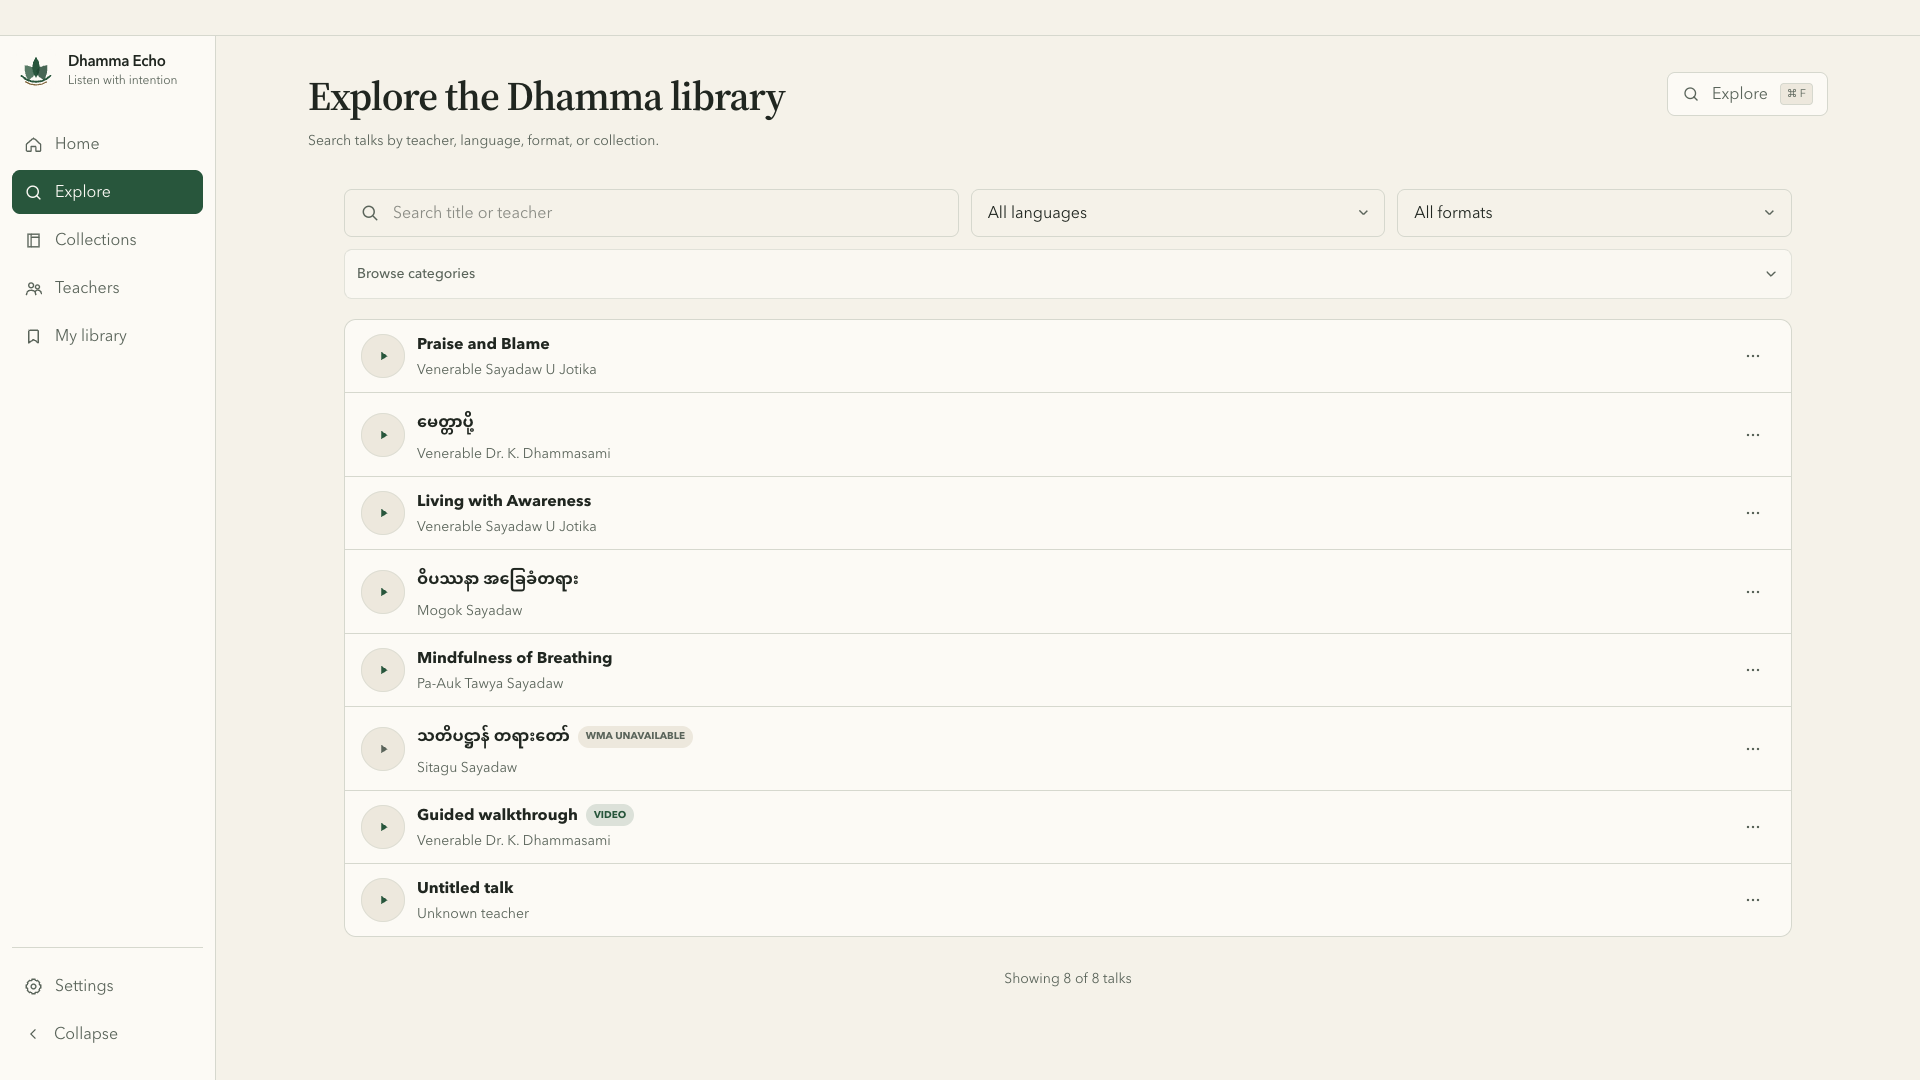
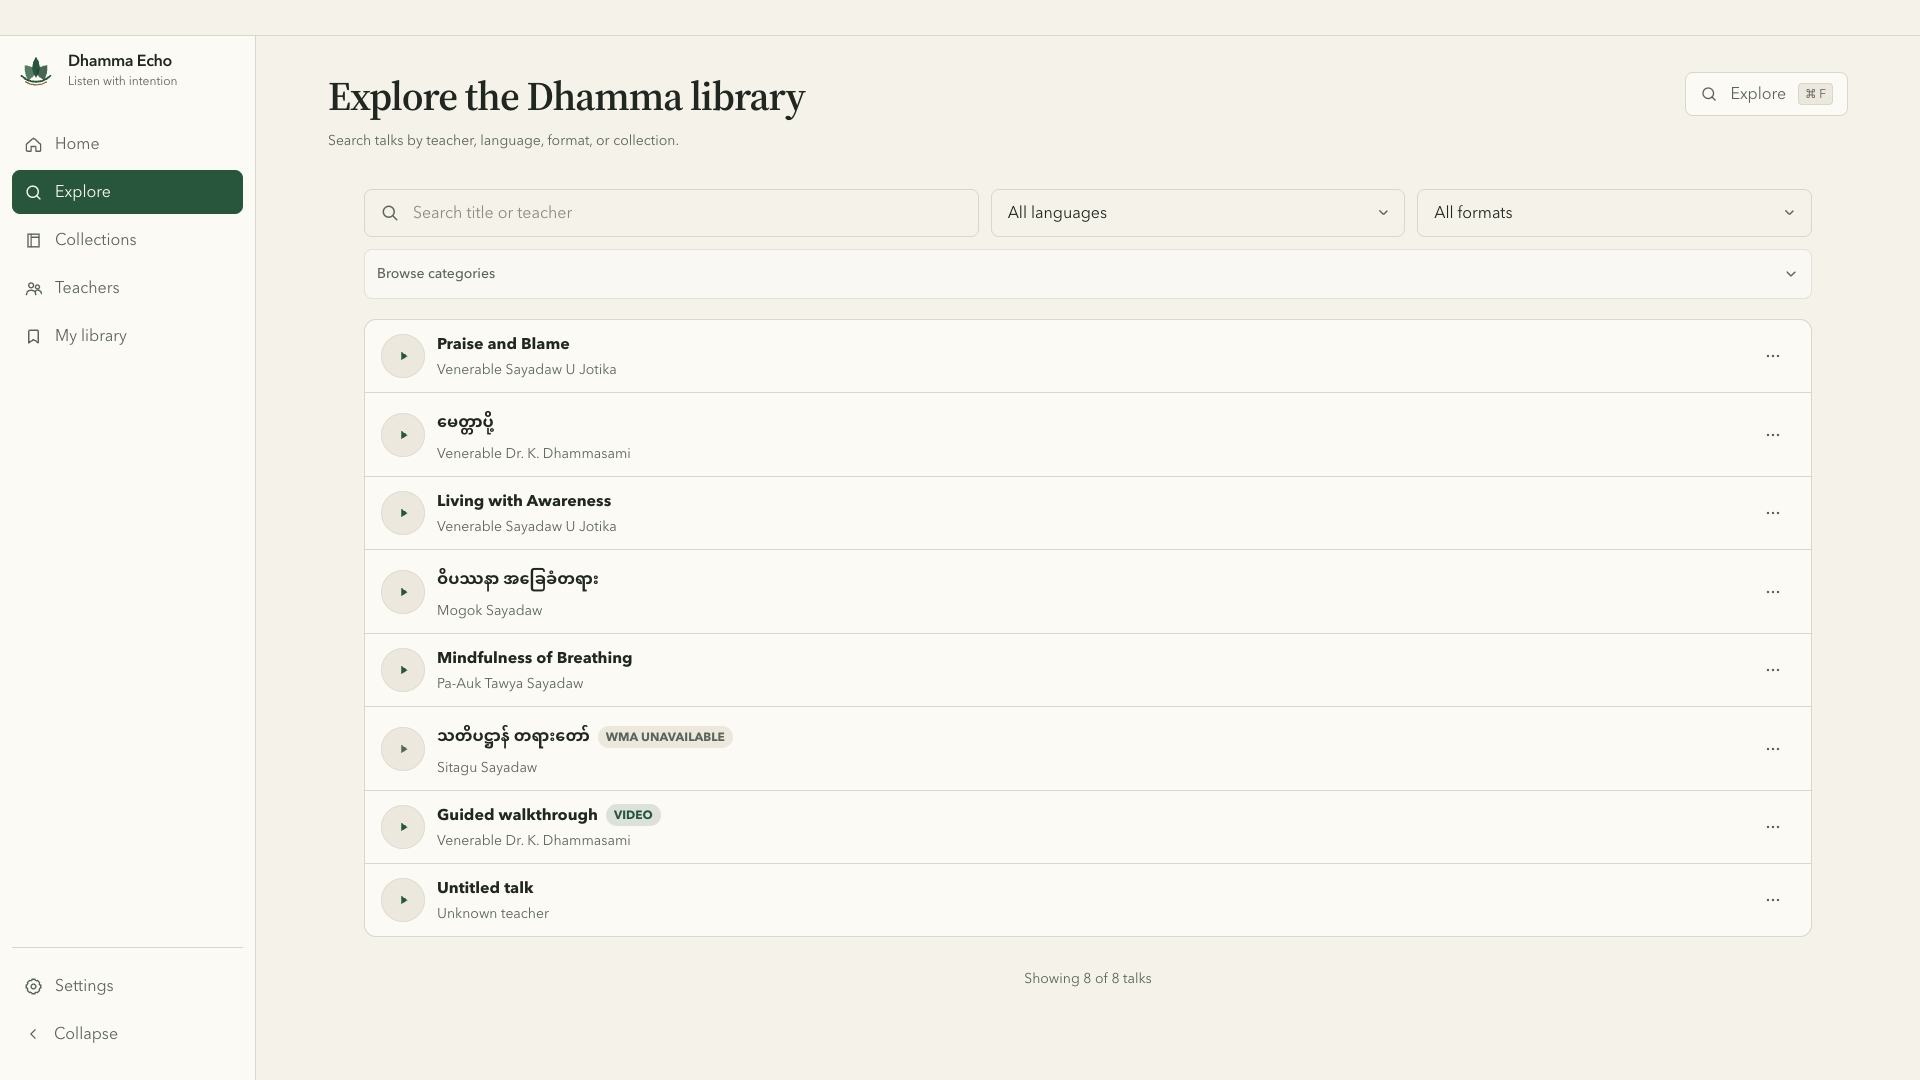
feat(design): apply approved evergreen editorial refinements

diff --git a/src/components/TrackRow.svelte b/src/components/TrackRow.svelte
@@ -140,15 +140,15 @@
           class="break-words font-bold leading-6 {myanmarTitle ? 'myanmar-text' : ''}"
           lang={myanmarTitle ? "my" : undefined}>{displayTitle}</span
         >{#if track.mediaType === "video"}<span
-            class="inline-flex min-h-[22px] items-center justify-center rounded-full bg-app-primary/15 px-2 align-middle text-[10px] leading-normal font-bold text-app-primary uppercase"
+            class="inline-flex min-h-[22px] items-center justify-center rounded-full bg-app-primary/15 px-2 align-middle text-xs leading-normal font-bold text-app-primary uppercase"
             >{t(locale, "track.badge.video")}</span
           >{/if}{#if !track.playable}<span
-            class="inline-flex min-h-[22px] items-center justify-center rounded-full bg-app-soft px-2 align-middle text-[10px] leading-normal font-bold text-app-muted uppercase"
+            class="inline-flex min-h-[22px] items-center justify-center rounded-full bg-app-soft px-2 align-middle text-xs leading-normal font-bold text-app-muted uppercase"
             >{track.format.toLowerCase() === "wma"
               ? t(locale, "track.badge.wma")
               : t(locale, "track.badge.unavailable")}</span
           >{/if}{#if missingDownload || unknownDownload}<span
-            class="inline-flex min-h-[22px] items-center justify-center rounded-full border border-app-border px-2 align-middle text-[10px] leading-normal font-bold text-app-muted"
+            class="inline-flex min-h-[22px] items-center justify-center rounded-full border border-app-border px-2 align-middle text-xs leading-normal font-bold text-app-muted"
             >{t(
               locale,
               missingDownload ? "track.badge.missingDownload" : "track.badge.unverifiedDownload"
@@ -162,7 +162,7 @@
         lang={myanmarTeacher ? "my" : undefined}
         ><span class="truncate">{track.teacherName || t(locale, "player.unknownTeacher")}</span
         >{#if resume > 0 && !current}<span
-            class="inline-flex shrink-0 items-center gap-1 rounded-full bg-app-soft px-2 align-middle text-[11px] leading-normal font-bold text-app-muted"
+            class="inline-flex shrink-0 items-center gap-1 rounded-full bg-app-soft px-2 align-middle text-xs leading-normal font-bold text-app-muted"
             aria-label={t(locale, "track.resumeAt", { time: resumeLabel })}
           >
             <span class="size-1.5 rounded-full bg-app-muted" aria-hidden="true"></span>

diff --git a/src/App.svelte b/src/App.svelte
@@ -19,7 +19,7 @@
   import SettingsView from "./views/SettingsView.svelte";
   import TeacherDetailView from "./views/TeacherDetailView.svelte";
   import TeachersView from "./views/TeachersView.svelte";
-  import { documentLanguage } from "./i18n.js";
+  import { documentLanguage, t } from "./i18n.js";
 
   let { app, stateStore }: { app: DhammaApp; stateStore: Readable<AppState> } = $props();
   let appState = $derived($stateStore);
@@ -137,9 +137,14 @@
 <svelte:window onkeydown={keydown} onbeforeunload={() => app.destroy()} />
 <div
   class="h-screen min-h-screen overflow-hidden bg-app-bg text-app {appState.ui.sidebarCollapsed
-    ? '[--sidebar-offset:68px]'
-    : '[--sidebar-offset:216px] max-[1040px]:[--sidebar-offset:200px]'}"
+    ? '[--sidebar-offset:72px]'
+    : '[--sidebar-offset:256px] max-[1040px]:[--sidebar-offset:224px]'}"
 >
+  <a
+    href="#main-content"
+    class="sr-only focus:not-sr-only fixed top-[calc(var(--titlebar-height)+0.5rem)] left-[calc(var(--sidebar-offset)+1rem)] z-50 rounded-control bg-app-primary px-4 py-3 text-sm font-bold text-app-primary-ink"
+    >{t(appState.settings.locale, "a11y.skipToMain")}</a
+  >
   <div class="h-full">
     <Sidebar state={appState} {app} />
     <div
@@ -148,7 +153,11 @@
       class="ml-(--sidebar-offset) h-full overflow-y-auto overscroll-none [scrollbar-gutter:stable] pt-(--titlebar-height) {bottomPadding}"
     >
       <Header state={appState} onsearch={focusCatalogueSearch} />
-      <main class="@container mx-auto max-w-[1520px] px-9 py-4 max-[1040px]:px-6">
+      <main
+        id="main-content"
+        tabindex="-1"
+        class="@container mx-auto max-w-[1520px] px-9 py-4 max-[1040px]:px-6"
+      >
         {#if appState.route === "home"}<HomeView state={appState} {app} />
         {:else if appState.route === "explore"}<ExploreView state={appState} {app} />
         {:else if appState.route === "collections"}<CollectionsView state={appState} {app} />

diff --git a/src/components/Sidebar.svelte b/src/components/Sidebar.svelte
@@ -42,7 +42,7 @@
     <img src="./logo.svg" alt="" class="size-10 shrink-0 rounded-control" />
     {#if !collapsed}
       <div class="min-w-0">
-        <p class="truncate text-[15px] font-semibold tracking-tight">{t(locale, "app.name")}</p>
+        <p class="truncate text-base font-semibold tracking-tight">{t(locale, "app.name")}</p>
         <p class="truncate text-xs text-app-muted">{t(locale, "app.tagline")}</p>
       </div>
     {/if}
@@ -57,7 +57,7 @@
         title={collapsed ? t(locale, item.labelKey) : undefined}
         class="group flex min-h-11 w-full items-center {collapsed
           ? 'justify-center'
-          : 'gap-3 px-3'} rounded-control text-left text-sm font-medium transition-[background-color,color] duration-150 {active(
+          : 'gap-3 px-3'} rounded-control text-left text-base font-medium transition-[background-color,color] duration-150 {active(
           item.route
         )
           ? 'bg-app-primary text-app-primary-ink'
@@ -77,7 +77,7 @@
       title={collapsed ? t(locale, "nav.settings") : undefined}
       class="flex min-h-11 w-full items-center {collapsed
         ? 'justify-center'
-        : 'gap-3 px-3'} rounded-control text-sm font-medium transition-colors {active('settings')
+        : 'gap-3 px-3'} rounded-control text-base font-medium transition-colors {active('settings')
         ? 'bg-app-primary text-app-primary-ink'
         : 'text-app-muted hover:bg-app-soft hover:text-app'}"
     >

diff --git a/src/components/VideoPlayer.svelte b/src/components/VideoPlayer.svelte
@@ -418,7 +418,7 @@
                 >
                   <span class="block size-[18px] [&_svg]:size-full"><Icon name="queue" /></span>
                   {#if appState.player.queue.length > 0}<span
-                      class="absolute -top-1 -right-1 flex size-4 items-center justify-center rounded-full border-2 border-app-surface bg-app-primary text-[0.55rem] font-extrabold text-app-primary-ink"
+                      class="absolute -top-1 -right-1 flex min-w-6 h-6 px-1 items-center justify-center rounded-full border-2 border-app-surface bg-app-primary text-xs font-extrabold text-app-primary-ink"
                       >{formatLocaleNumber(appState.player.queue.length, locale)}</span
                     >{/if}
                 </button>

diff --git a/src/components/Player.svelte b/src/components/Player.svelte
@@ -282,7 +282,7 @@
           title={queueLabel}
           aria-expanded={appState.player.queueOpen}
           ><span><Icon name="queue" /></span>{#if appState.player.queue.length > 0}<span
-              class="absolute -top-[3px] -right-1 flex size-[18px] items-center justify-center rounded-full border-2 border-app-surface bg-app-primary text-[0.58rem] font-extrabold text-app-primary-ink"
+              class="absolute -top-[3px] -right-1 flex min-w-6 h-6 px-1 items-center justify-center rounded-full border-2 border-app-surface bg-app-primary text-xs font-extrabold text-app-primary-ink"
               aria-hidden="true">{formatLocaleNumber(appState.player.queue.length, locale)}</span
             >{/if}</button
         >

diff --git a/src/i18n.ts b/src/i18n.ts
@@ -9,6 +9,7 @@ import { formatLocaleNumber } from "./utils.js";
 const en = {
   "app.name": "Dhamma Echo",
   "app.tagline": "Listen with intention",
+  "a11y.skipToMain": "Skip to main content",
 
   "nav.primary": "Primary",
   "nav.primaryNavigation": "Primary navigation",
@@ -325,6 +326,7 @@ export type MessageKey = keyof typeof en;
 const my: Partial<Record<MessageKey, string>> = {
   "app.name": "Dhamma Echo",
   "app.tagline": "ရည်ရွယ်ချက်ဖြင့် နားထောင်ပါ",
+  "a11y.skipToMain": "ပင်မအကြောင်းအရာသို့ သွားရန်",
 
   "nav.primary": "အဓိက",
   "nav.primaryNavigation": "အဓိက လမ်းညွှန်",

diff --git a/src/views/LibraryView.svelte b/src/views/LibraryView.svelte
@@ -63,7 +63,7 @@
           onclick={() => setTab(tab.id)}
           >{t(locale, tab.labelKey)}
           {#if tabCount(tab.id) > 0}<span
-              class="inline-flex min-h-[20px] items-center justify-center rounded-full bg-app-primary/15 px-2 align-middle text-[11px] leading-normal font-bold text-app-primary"
+              class="inline-flex min-h-[20px] items-center justify-center rounded-full bg-app-primary/15 px-2 align-middle text-xs leading-normal font-bold text-app-primary"
               >{formatLocaleNumber(tabCount(tab.id), locale)}</span
             >{/if}
         </button>

diff --git a/src/components/Header.svelte b/src/components/Header.svelte
@@ -41,7 +41,7 @@
       <span class="size-[18px]"><Icon name="explore" /></span>
       <span>{t(state.settings.locale, "nav.explore")}</span>
       <kbd
-        class="rounded border border-app-border bg-app-soft px-1.5 py-0.5 font-sans text-[11px] leading-4 max-[1040px]:hidden"
+        class="rounded border border-app-border bg-app-soft px-1.5 py-0.5 font-sans text-xs leading-4 max-[1040px]:hidden"
         >{shortcut}</kbd
       >
     </button>

diff --git a/src/index.css b/src/index.css
@@ -139,8 +139,12 @@ h3 {
 }
 
 button:focus-visible,
+a[href]:focus-visible,
 input:focus-visible,
 select:focus-visible,
+textarea:focus-visible,
+[role="button"]:focus-visible,
+[role="slider"]:focus-visible,
 [tabindex]:focus-visible {
   outline: 3px solid var(--color-app-primary);
   outline-offset: 3px;

diff --git a/docs/redesign/Q01_Q48_DELIVERY.md b/docs/redesign/Q01_Q48_DELIVERY.md
@@ -1,0 +1,76 @@
+# Dhamma Echo — Evergreen Editorial, Q01–Q48 Approval & Delivery
+
+**Approved:** 2026-10-24 · **Status:** Implemented as a refinement of the established 0.6.1 redesign · **Primary source of truth:** ../../DESIGN.md
+
+This decision set is cumulative with the earlier Q01–Q80 redesign recorded in REDESIGN_PRD.md and CONCEPT_DECISION.md. It does not replace working catalogue, persistence, playback, or security architecture. All Q01–Q48 answers are approved **A**. This document gives the approved visual contract and distinguishes code changes from existing behavior and unverified claims.
+
+## Direction and rules (Q01–Q06)
+
+Quiet editorial listening room; nuanced Buddhist identity; grounded, warm atmosphere; major refinement rather than novelty; Apple Books-inspired reading hierarchy; solid surfaces with hairline borders. Avoid decorative gradients, fabricated artwork, overlaid glass effects, extraneous metrics, and a separate navigation model.
+
+## Evergreen Editorial semantic palette (Q07–Q12)
+
+| Role               | Light   | Dark    | Meaning                         |
+| ------------------ | ------- | ------- | ------------------------------- |
+| Canvas / substrate | #F5F2E9 | #141C18 | Application backdrop            |
+| Page / surface     | #FCFAF5 | #1E2721 | Reading surfaces                |
+| Panel / soft       | #EDE8DD | #27312A | Grouped controls                |
+| Main text          | #202620 | #EBEEE6 | Content and headings            |
+| Muted text         | #5A645A | #B8C2B6 | Supporting information          |
+| Border             | #D6D8CE | #3B473F | Structural separation           |
+| Primary            | #28563C | #98C5A8 | Current action and selection    |
+| Primary strong     | #1F4631 | #BED9C6 | Emphasis / interactive feedback |
+| On primary         | #FCFAF5 | #141C18 | Primary-button text             |
+| Bronze marker      | #83683F | #BDA47D | Quiet secondary emphasis        |
+| Error text         | #A63A2D | #EF9F8F | Recoverable/unrecoverable error |
+| Error surface      | #F9E2DE | #351E1A | Error container                 |
+
+The current system theme remains the initial default; explicit Light and Dark choices are stored locally. DESIGN.md and src/index.css define canonical roles and stay checked by bun run design:check. Custom states use semantic color mixing rather than arbitrary new colors. Normal-text contrast target is >=4.5:1; essential non-text contrast >=3:1.
+
+## Typography and localization (Q13–Q18)
+
+- Display English: Source Serif 4, Source Serif Pro, Georgia; headings approximately 30/24/20/18px depending on context.
+- Body: Avenir Next and system sans, **16px default reading target**, 14px for compact data rows, 12px minimum for intentional labels/badges; avoid sub-12px lettering.
+- Myanmar: Noto Sans Myanmar, Myanmar Text, Pyidaungsu fallback. No Latin tracking, forced caps, unsafe codepoint truncation or compressed Myanmar line heights.
+- Language selection: Myanmar and English, using the existing translation dictionaries. Dates/durations/counts remain locale-sensitive; long titles wrap without breaking glyph clusters.
+
+## Layout and navigation (Q19–Q24)
+
+- One desktop shell with **256px standard / 224px compact / 72px collapsed** sidebar, context-sensitive header, content viewport up to 1520px, and player when active.
+- Minimum window: 860×620. Main content remains scrollable. No permanent empty right panel.
+- Home: continue listening first when available, otherwise helpful first-launch discovery.
+- Explore: prominent search, contextual filters, accessible audio/video/WMA states, scannable track rows.
+- Teachers and Collections: dedicated listing and detail screens, actual catalogue content only.
+- Spacing foundation: 4/8/12/16/24/32/48px. Controls radius 8px; cards 12px; filter pills fully rounded.
+
+## Listening system (Q25–Q30)
+
+- Persistent bottom audio player uses existing 84px desktop / 132px compact layout and MediaEngine, not a parallel implementation.
+- Queue opens on demand. Playback controls and seek remain keyboard-operable and visually distinct. Queue count badges must remain readable.
+- Video remains integrated and expandable without cloning playback. Retain rate, position, resume, queue, unsupported-format, offline, and failure handling.
+
+## Components and interaction (Q31–Q36)
+
+Reuse the existing Svelte components: App shell, TitleBar, Sidebar, Header, Icon, search, TeacherCard, CollectionCard, TrackRow, Player, QueuePanel, VideoPlayer, ProgressiveControls, AsyncState, and settings controls. Each interaction requires understandable default, hover, pressed, focus-visible, selected, error and disabled states as applicable. Reuse the project Icon component. Motion is subtle (~100–240ms), never ornamental; honor reduced motion. Teacher imagery must be authentic or an identity-neutral fallback.
+
+## Accessibility and macOS requirements (Q37–Q42)
+
+- WCAG 2.2 AA target; visible keyboard focus, semantic controls, readable mixed scripts, no color-only status.
+- First keyboard stop is a localized Skip to main content link; activation focuses #main-content.
+- Pointer hit targets remain comfortable, especially on playback and queue controls.
+- Verify minimum 860×620 window, 150% root text-size scaling without horizontal content overflow, both color themes and Myanmar/English.
+- Preserve native window/titlebar interactions, local-only preferences, keyboard shortcuts, VoiceOver expectations, and Tauri/WKWebView semantics.
+
+## Engineering, verification and scope (Q43–Q48)
+
+- Preserve all existing functionality and privacy/security constraints. Rust and read-only SQLite remain unchanged by this visual pass.
+- DESIGN.md stays canonical with linked CSS design tokens and drift checks. No new runtime UI framework or dependencies.
+- Layout, badge typography, focus selector coverage, and localized skip link are implemented in src/. Regression assertions and Playwright 150%-scale/skip-navigation checks were added.
+- Reuse the existing comprehensive checks: bun run verify:web, bun run verify, Impeccable source and live scans, Playwright responsive/theme/locale suites, directory/focus, interactions, and offline behavior.
+- Audit screenshots remain in docs/images and docs/redesign. Review both themes in native WKWebView for final macOS signoff.
+
+## Acceptance and known verification boundaries
+
+The acceptance gate includes: no token drift, no source-level Impeccable failures, all existing tests passing, screenshots at 860×620 and desktop sizes, no document/content horizontal overflow at 150% root type scaling, skip link keyboard operable, no media state regressions, and no new runtime dependencies.
+
+A passing browser preview is not proof of native VoiceOver compliance, real third-party media availability, macOS notarization, or Windows/Linux readiness. Those remain evidence-specific checks. See IMPLEMENTATION_REPORT.md and ACCEPTANCE_RESULTS.json for earlier Q01–Q80 evidence and limitations.

diff --git a/docs/redesign/IMPLEMENTATION_REPORT.md b/docs/redesign/IMPLEMENTATION_REPORT.md
@@ -1,5 +1,18 @@
 # Dhamma Echo 0.6.1 — Implementation & Verification Report
 
+## 2026-10-24 Evergreen Editorial Q01–Q48 implementation
+
+**Approved decisions:** all Q01–Q48 recommended A options, recorded in [Q01_Q48_DELIVERY.md](Q01_Q48_DELIVERY.md). This work refines the existing 0.6.1 Quiet Listening Desk redesign rather than replacing its data or playback architecture.
+
+- **Impeccable v4.7.0:** confirmed installed under `.agents/skills/impeccable`, loaded its project context and craft/audit guidance, and ran source/live detection. Source scan reported **0 anti-patterns** after removing 9 off-ramp typography advisories; the source scan is not a complete rendered accessibility audit.
+- **UI changes:** applied the approved 256/224/72px sidebar widths; enlarged labels, status badges and queue count indicators; updated default body typography documentation to 16px; extended visible focus selectors; added a localized keyboard-first Skip to main content link and focusable destination.
+- **Tests:** `bun run verify` passed, including format checks, web/site/design checks, tests and coverage, dependency audit, Rust Clippy/tests, and Rust release build. Four Playwright suites (responsive/theme/locale, interactions, directory/focus, and offline) passed. The UI suite additionally verifies 150% root font scaling without horizontal overflow at 860×620 and keyboard skip navigation.
+- **Visual evidence:** refreshed six documentation screenshots and the 860px Home screenshot; manually inspected Home and Explore at desktop and Home at 860px. The browser preview is not a native WKWebView screenshot.
+- **Packaging:** `bun run package` completed. `codesign --verify --deep --strict` succeeded for `Dhamma Echo.app`; `hdiutil verify` validated `Dhamma Echo_0.6.1_aarch64.dmg`.
+- **Limitations:** App is ad-hoc signed but **not notarized**. Live external media reliability, actual native VoiceOver operation, cross-platform Windows/Linux behavior and user-involved hardware testing are not claimed complete. This continuation does not assert every previously IN_PROGRESS AC-01–AC-80 criterion was exhaustively verified.
+
+---
+
 ## 2026-10-23 engineering continuation
 
 The 0.6.1 working tree extends the 0.6.0 baseline with source changes to the Rust

diff --git a/DESIGN.md b/DESIGN.md
@@ -41,7 +41,7 @@ typography:
     lineHeight: 1.2
   body:
     fontFamily: "'Avenir Next', 'Noto Sans Myanmar', 'Myanmar Text', 'Pyidaungsu', system-ui, sans-serif"
-    fontSize: "0.875rem"
+    fontSize: "1rem"
     fontWeight: 400
     lineHeight: 1.5
   label:
@@ -206,4 +206,4 @@ Use the frontmatter radius grammar: 8px controls, 12px cards, rounded filter pil
 
 **Don't:** Invent teacher portraits, biographies, durations or recommendations; add marketing hero imagery, irrelevant cards, thick colored sidebars, new runtime dependencies, remote fonts, accounts, telemetry, gradients, glassmorphism, novelty sacred symbols, additional media services or destructive state migration; show custom macOS controls alongside native ones; restart or duplicate playback to change a theme or route.
 
-For source and acceptance traceability see docs/redesign/REDESIGN_PRD.md and docs/redesign/ACCEPTANCE.md.
+For source and acceptance traceability see docs/redesign/REDESIGN_PRD.md and docs/redesign/ACCEPTANCE.md. The approved Q01–Q48 Evergreen Editorial refinement, semantic light/dark HEX palette, 256/224/72px sidebar contract, accessible 12px badges, and keyboard skip-navigation requirement are recorded in docs/redesign/Q01_Q48_DELIVERY.md.
